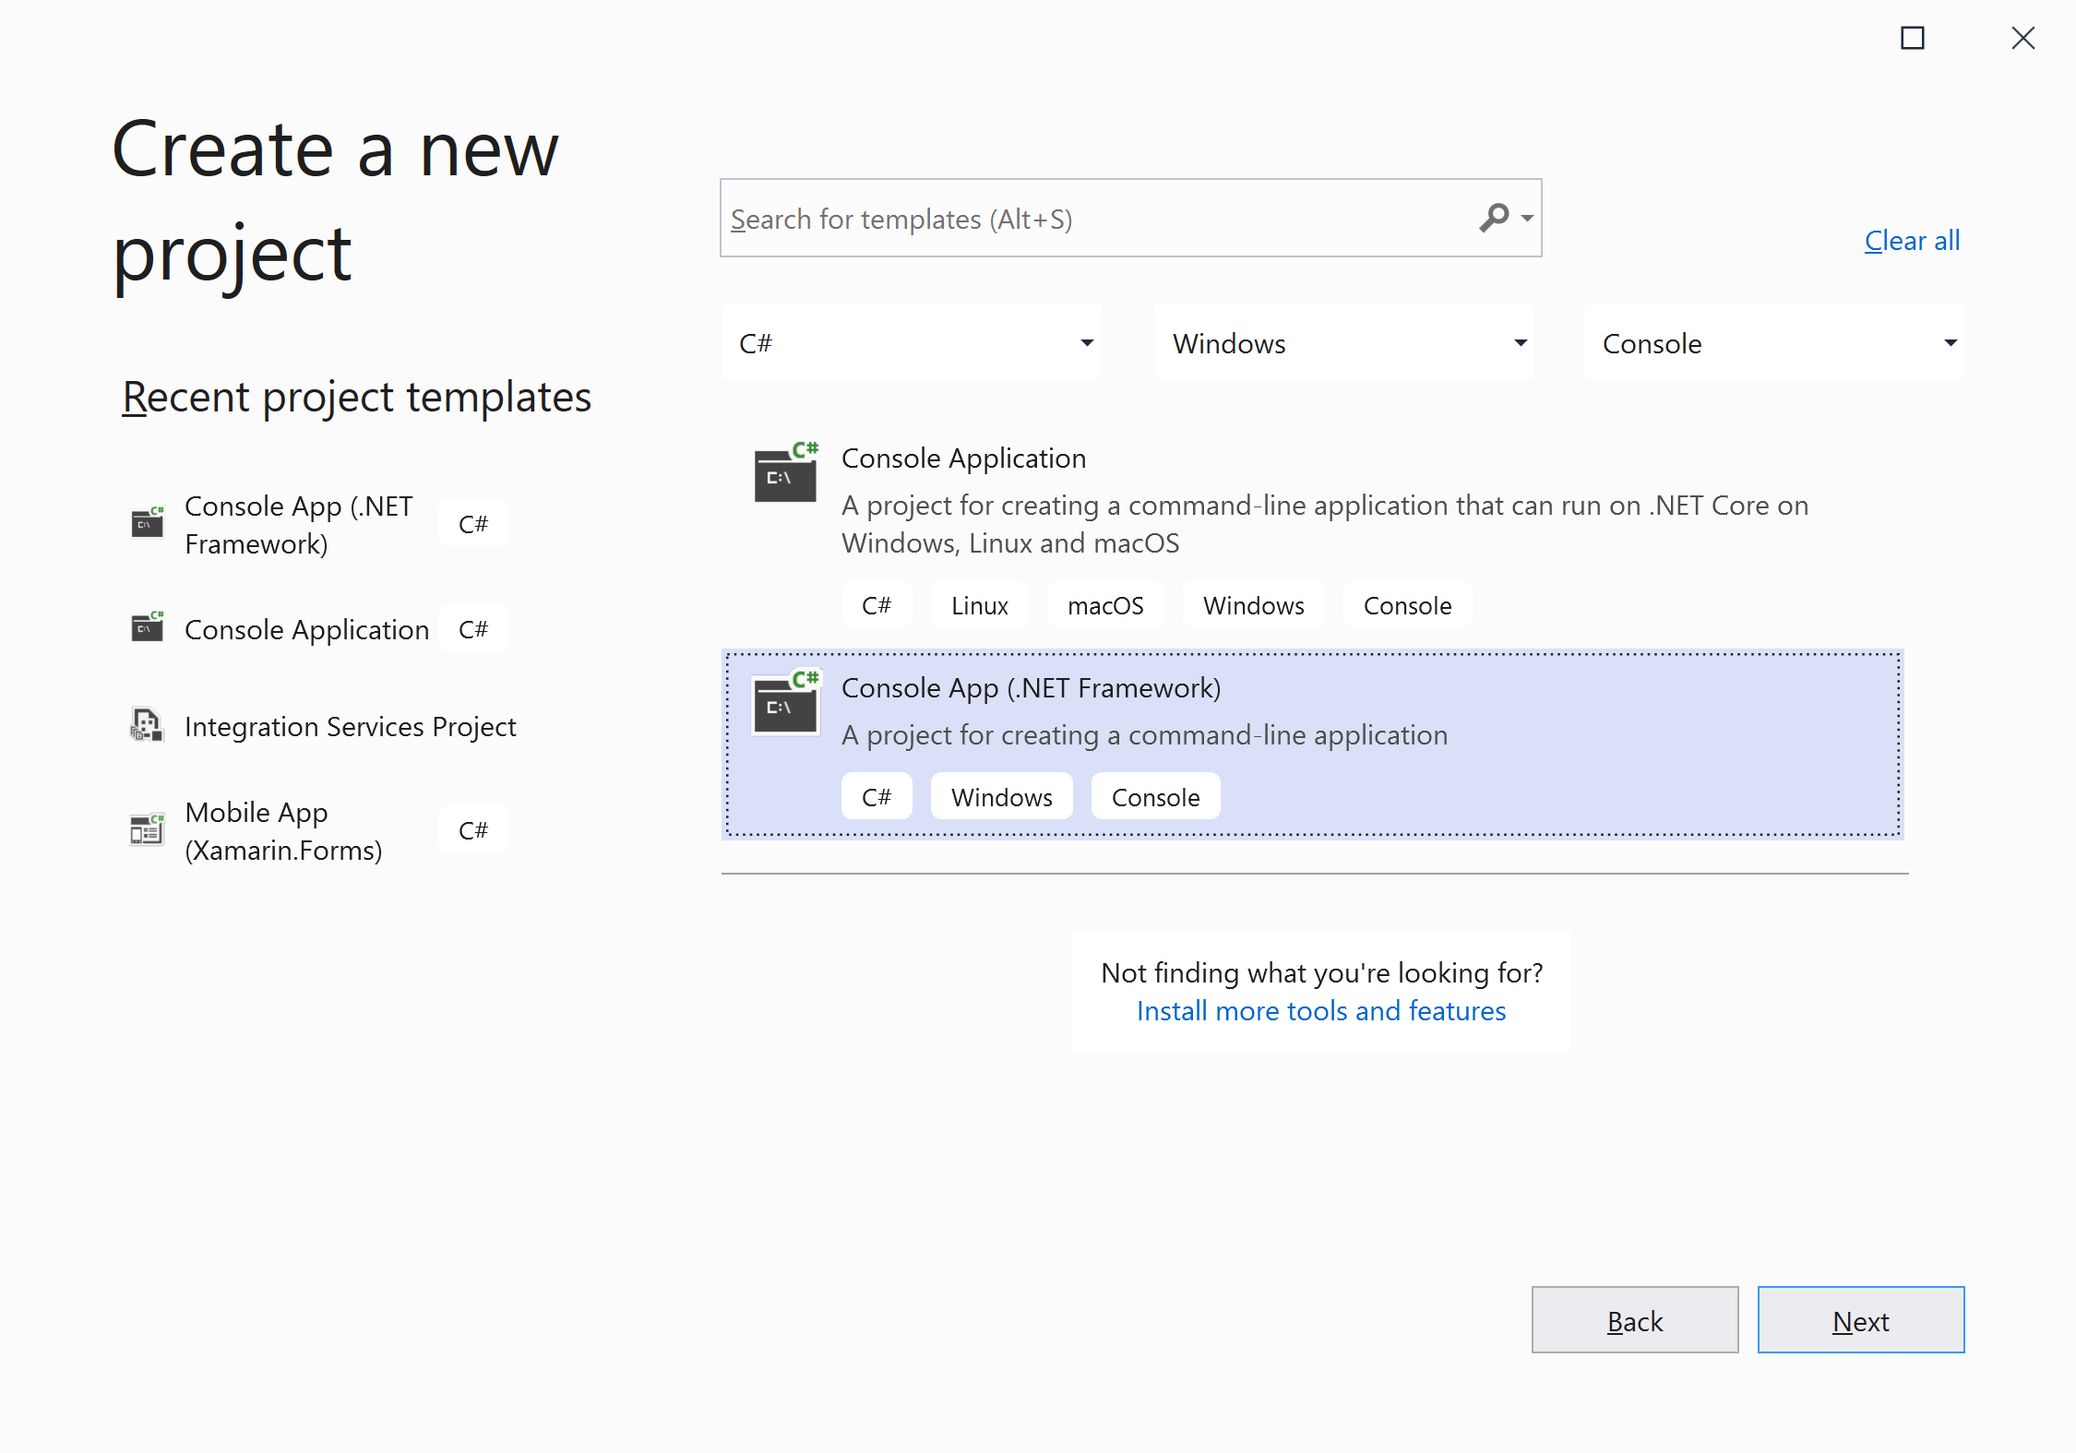
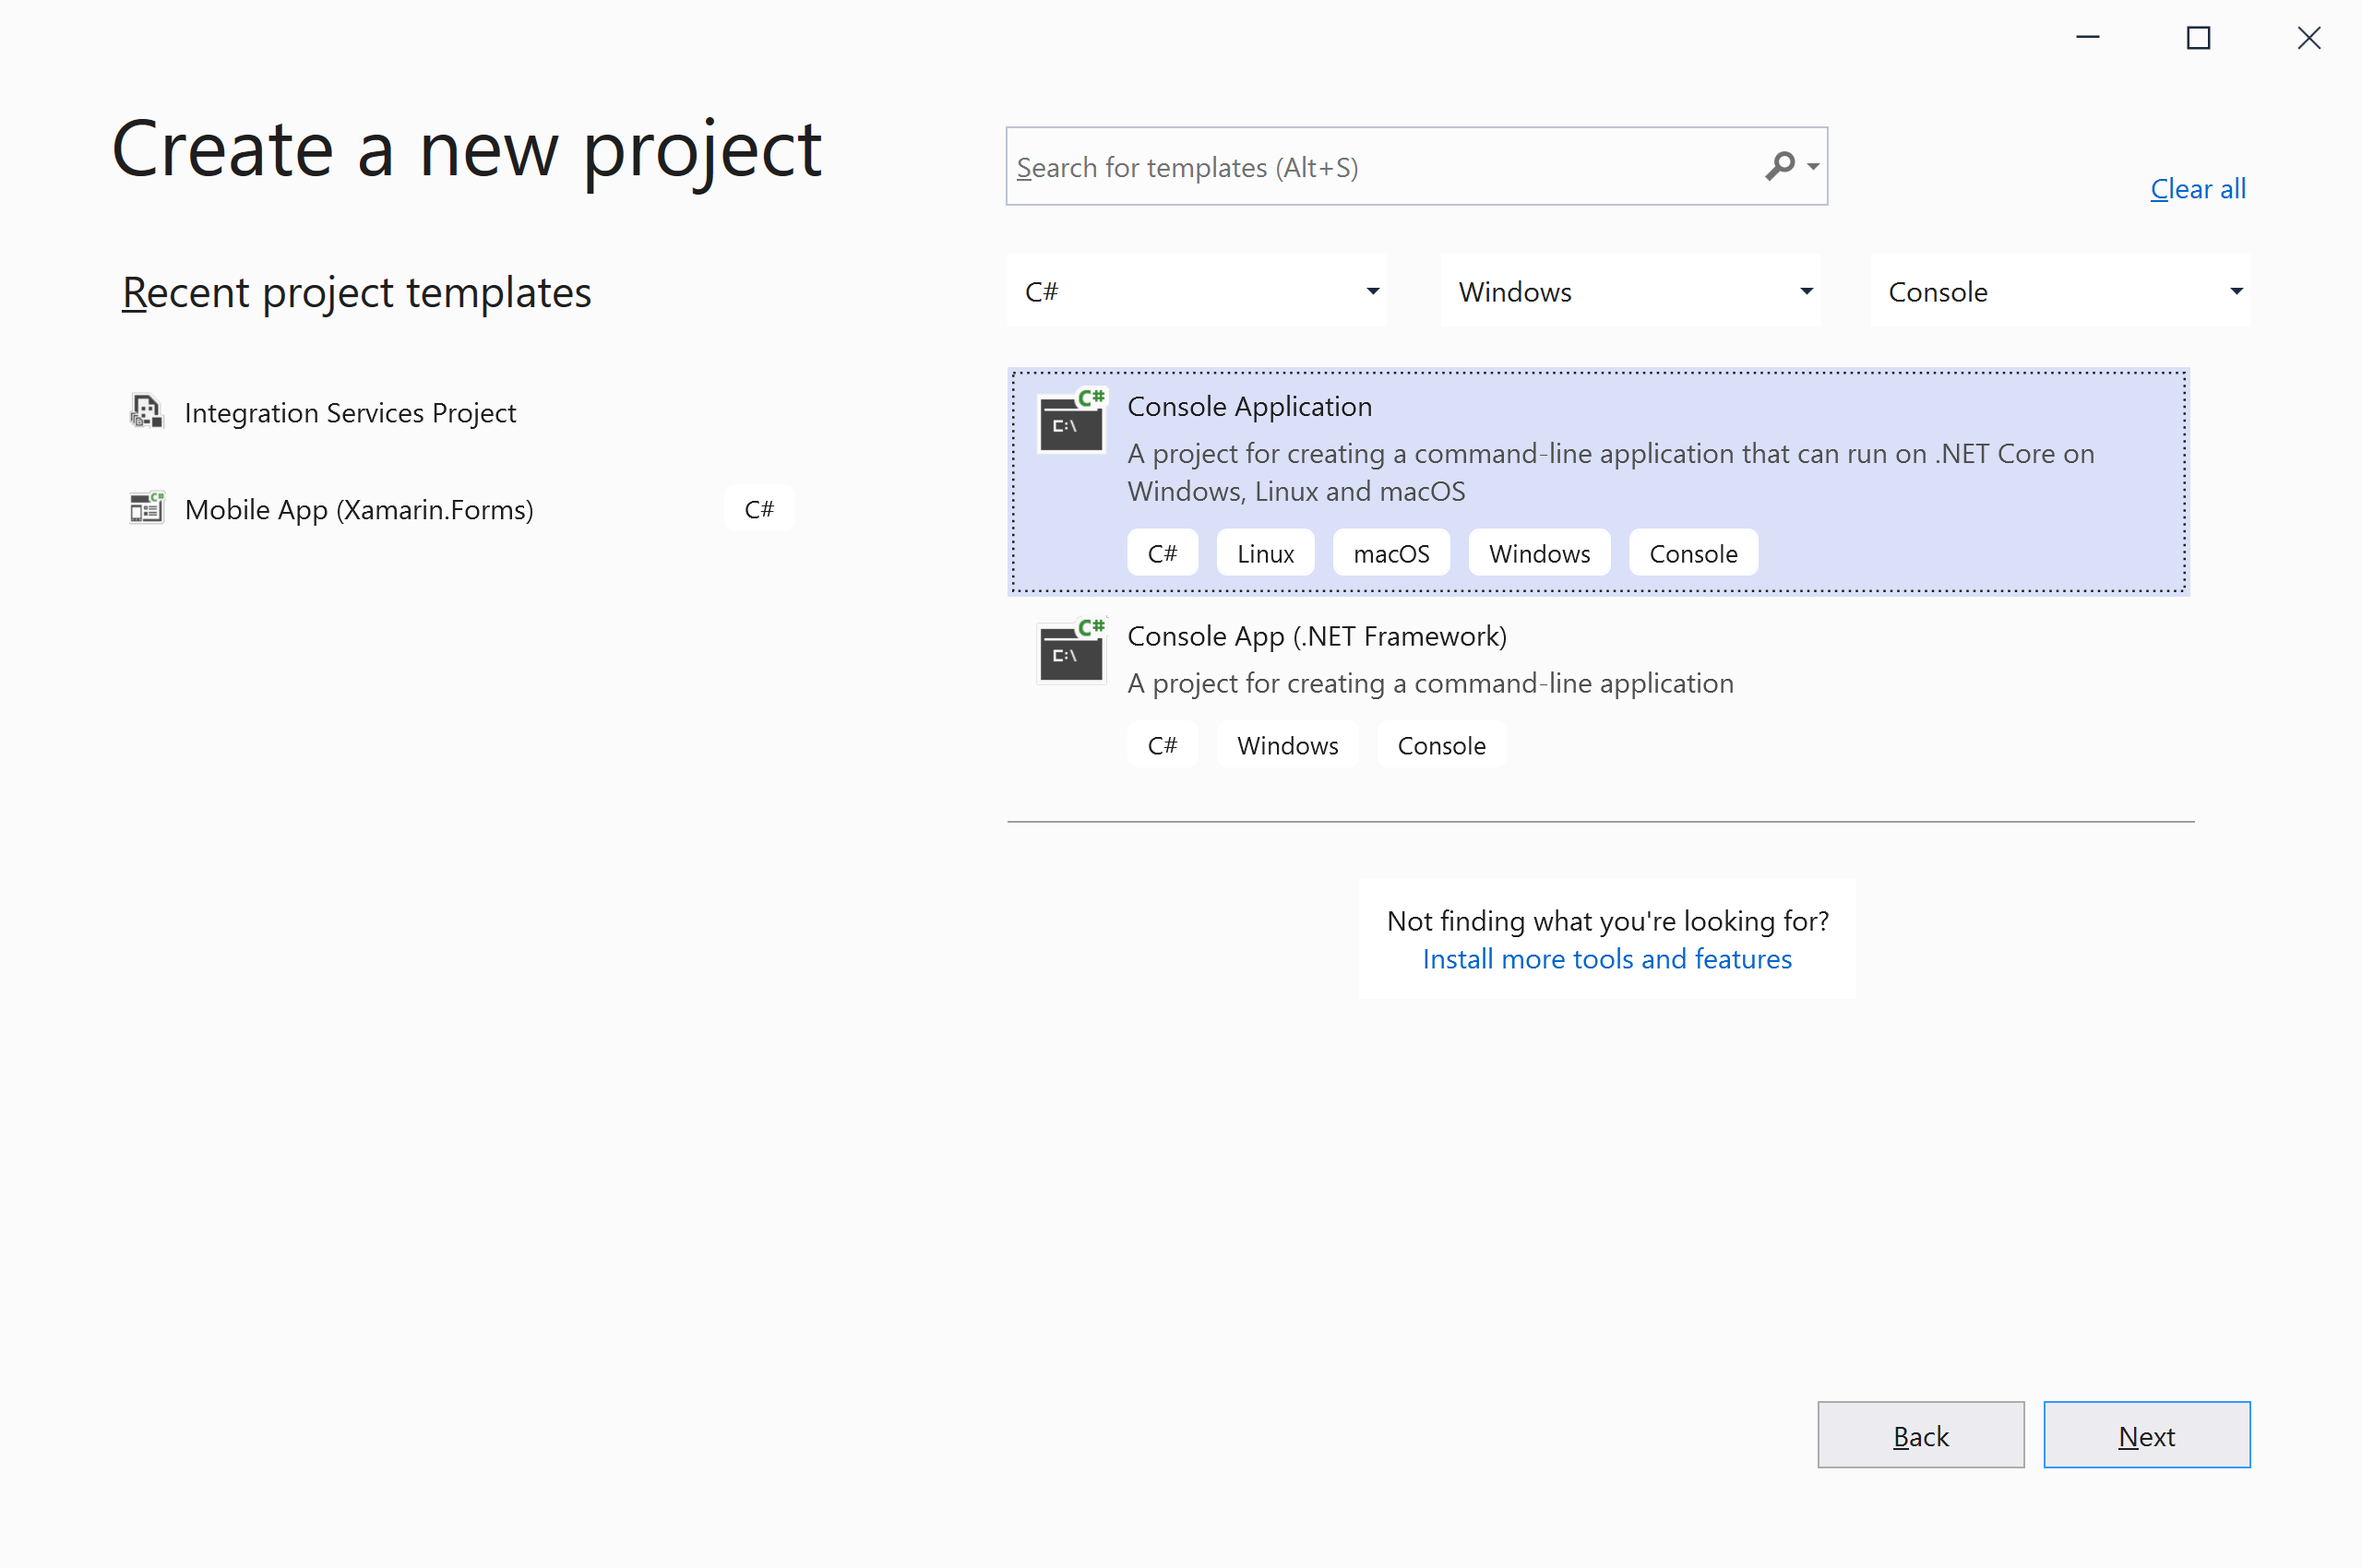
Updated articles

diff --git a/tutorials/dapper-mapper/getting-started.md b/tutorials/dapper-mapper/getting-started.md
@@ -10,7 +10,7 @@ Name: Getting Started
  - It allows you to map a single row to multiple objects. 
  - It also automatically figures out the relationships between the returned objects and assigns them.
 
-## Installation
+## Setup
 
 To start using the **Dapper.Mapper** in your application. You will need to install the [Dapper.Mapper](https://www.nuget.org/packages/Dapper.Mapper) NuGet package.
 
@@ -22,22 +22,26 @@ Select the **Create a new project** option.
 
 <img src="images/setup-2.png" alt="Select Console Application template">
 
-Choose **C#** as language, **Windows** as a platform, and **Console** as the project type. In the template pane, select **Console App (.NET Framework)** and click the **Next** button.
+Choose **C#** as language, **Windows** as a platform, and **Console** as the project type. In the template pane, select **Console Application** and click the **Next** button.
 
 <img src="images/setup-3.png" alt="Configure your new project">
 
-Enter the project name, you can change the location and solution name, but we will leave it and click on the **Create** button.  
+Enter the project name, you can change the location and solution name, but we will leave it as is and click on the **Next** button.  
 
 <img src="images/setup-4.png" alt="Additional Information">
 
+On the **Additional Information** dialog, select the target framework and then click on the **Create** button.
+
+<img src="images/setup-5.png" alt="Console Application created">
+
 You can see a new console application project is created. Now to install a **Dapper.Mapper**, right-click on the **Solution Explorer** project, and select **Manage NuGet Packages...**
 
-<img src="images/setup-5.png" alt="Install Dapper.Mapper">
+<img src="images/setup-6.png" alt="Install Dapper.Mapper">
 
 Select the **Browse** tab and search for **Dapper.Mapper** and install the latest version by pressing the **Install** button. 
 
-<img src="images/setup-6.png" alt="Dapper.Mapper installed successfully">
+<img src="images/setup-7.png" alt="Dapper.Mapper installed successfully">
 
-Once **Dapper.Mapper** has been successfully installed. 
+Once **Dapper.Mapper** has been successfully installed. You need to install [System.Data.SqlClient](https://www.nuget.org/packages/System.Data.SqlClient) NuGet package.
 
 You are now ready to start your application.
